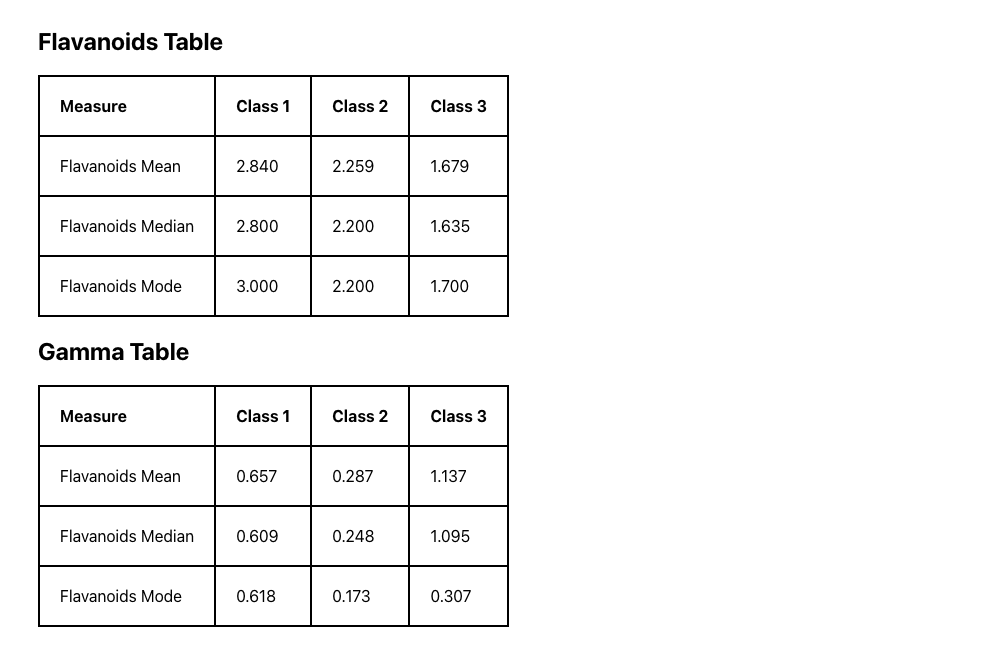
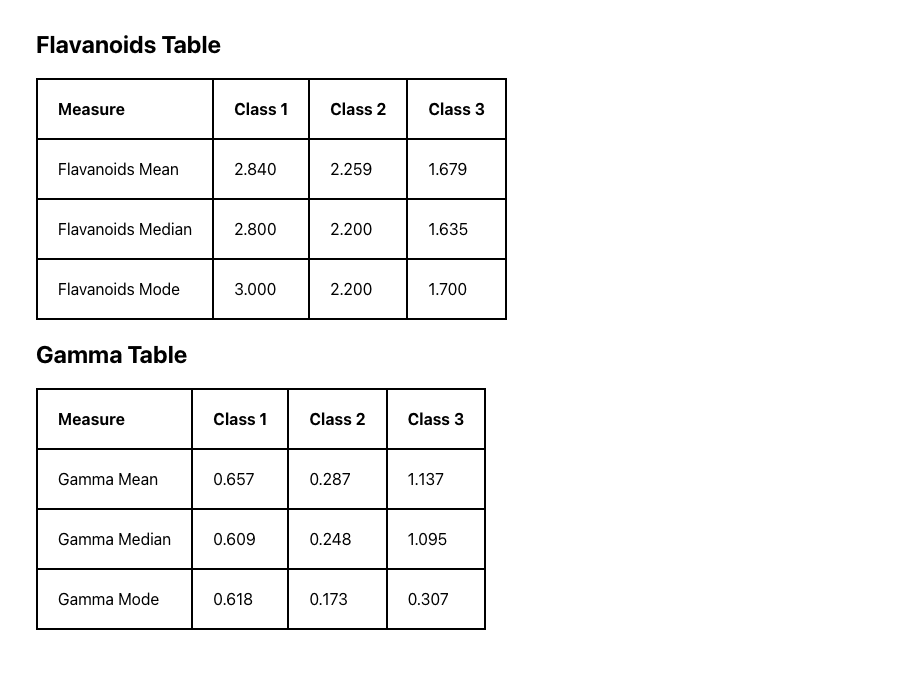
fixed table type and pushed correct screenshot

Changed region(s): [[0.031, 0.0904, 0.5575, 0.9639], [0.031, 0.0301, 0.2478, 0.1205], [0.4956, 0.0904, 0.5575, 0.1205]]

diff --git a/src/components/Table/index.tsx b/src/components/Table/index.tsx
@@ -7,9 +7,10 @@ interface Props {
     median: number;
     mode: number;
   }[];
+  tableType: string;
 }
 
-const Table = ({ data }: Props) => (
+const Table = ({ data, tableType }: Props) => (
   <table>
     <thead>
       <tr>
@@ -21,19 +22,19 @@ const Table = ({ data }: Props) => (
     </thead>
     <tbody>
       <tr>
-        <td>Flavanoids Mean</td>
+        <td>{`${tableType} Mean`}</td>
         {data.map(({ mean }) => (
           <td key={mean}>{mean.toFixed(3)}</td>
         ))}
       </tr>
       <tr>
-        <td>Flavanoids Median</td>
+        <td>{`${tableType} Median`}</td>
         {data.map(({ median }) => (
           <td key={median}>{median.toFixed(3)}</td>
         ))}
       </tr>
       <tr>
-        <td>Flavanoids Mode</td>
+        <td>{`${tableType} Mode`}</td>
         {data.map(({ mode }) => (
           <td key={mode}>{mode.toFixed(3)}</td>
         ))}

diff --git a/src/App.tsx b/src/App.tsx
@@ -18,10 +18,10 @@ function App() {
     <div className="App">
       <div>
         <h2>Flavanoids Table</h2>
-        <Table data={flavanoidsData} />
+        <Table data={flavanoidsData} tableType="Flavanoids" />
 
         <h2>Gamma Table</h2>
-        <Table data={gammaData} />
+        <Table data={gammaData} tableType="Gamma" />
       </div>
     </div>
   );
